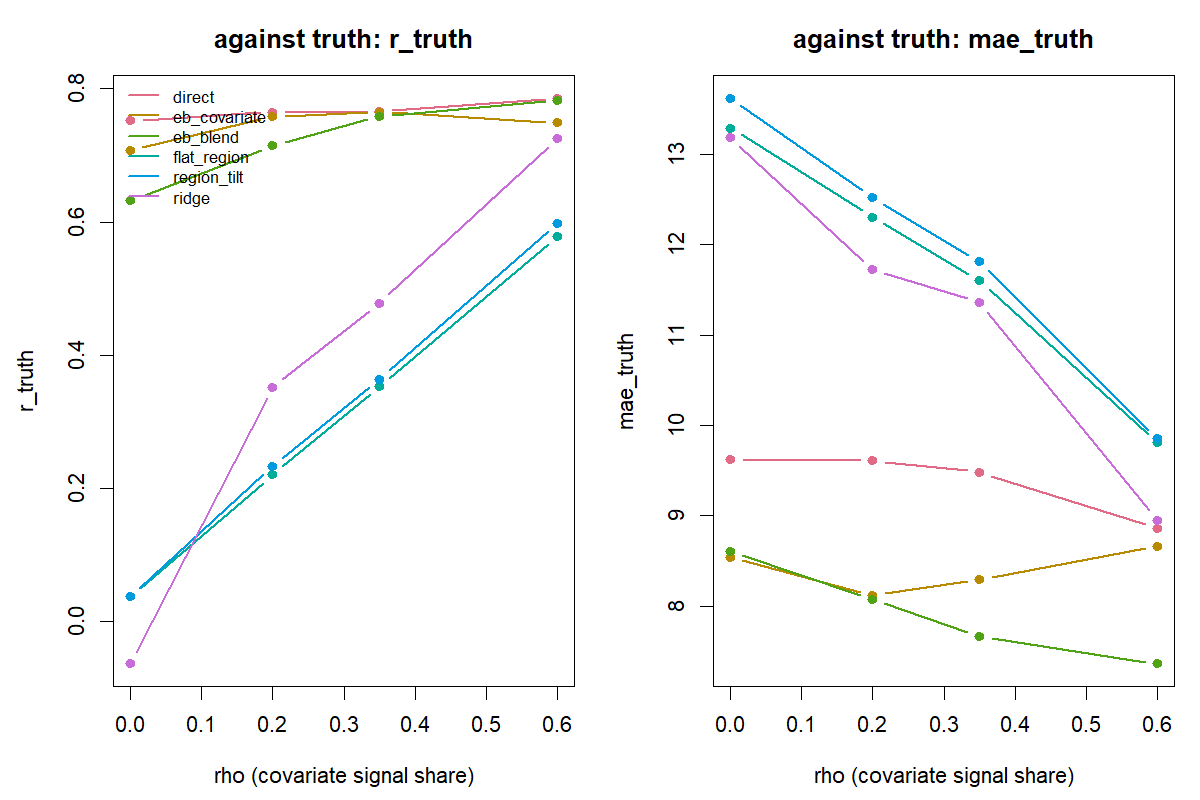
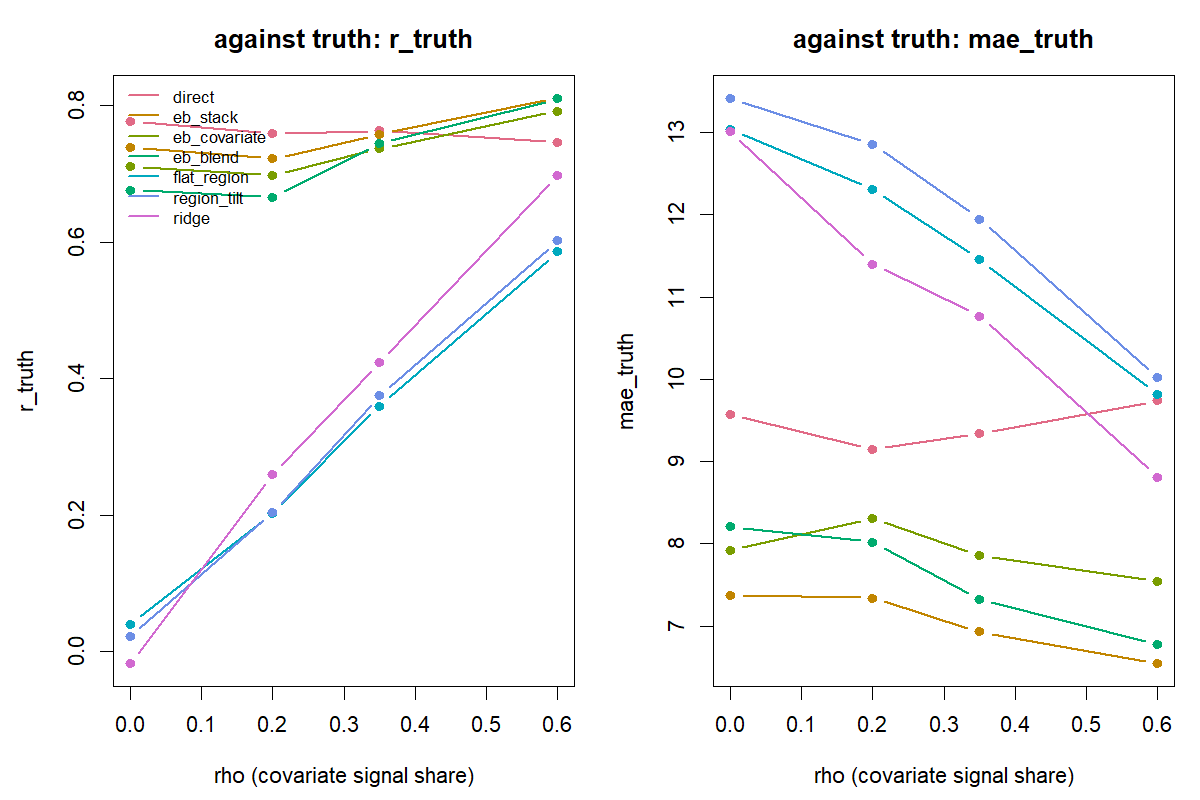
Give the three shrinkage arms the same definition of tau2
The estimator tournament was comparing eb_blend against eb_covariate and
eb_stack while giving them different variance components:

  eb_blend       var(p) - vbar          TOTAL between-district variance
  eb_covariate   var(p - ridge) - vbar  residual after its own target
  eb_stack       var(p - stack) - vbar  residual after its own target

For a shrinkage toward m the model is theta_d = m_d + u_d, so tau2 is
Var(p - m) - vbar. The total-variance form overstates it by the between-region
component, about 40 percent of district variance by WS-E2. So any reading of
"eb_stack beats eb_blend" was conflating a better TARGET with a better TAU2
ROUTE, in the one comparison the tournament exists to make. All three arms now
use residual-after-own-target, and the total-variance route is kept as a scored
arm rather than deleted, so its cost is measured.

Quantifying it on the 24 shipped cells contradicted the reasoning that
motivated the fix. Both moment routes collapse to the floor in 14 of 24 cells.
Of the ten that survive, the residual is smaller in five and LARGER in five,
reaching 61x in Sierra Leone women_iron and 107,004x in child_vitA.

A residual variance above the total says the jackknifed region mean predicts a
district worse than the grand mean does. With 14 districts across 4 regions,
Sierra Leone computes each district's regional target from two or three other
districts, so the target carries heavy sampling error of its own. The residual
[…]

diff --git a/docs/findings/WSB_ESTIMATOR_TOURNAMENT.md b/docs/findings/WSB_ESTIMATOR_TOURNAMENT.md
@@ -144,3 +144,72 @@ and everything under `results/deliverables/` are new.
 route for `tau2` is reinstated. Suite is 72 passing.
 
 **Runtime.** About four hours for eight cells at 100 replicates and four ρ.
+
+---
+
+# Addendum, late September 2026: the tau2 route, and a target that is noisier than no target
+
+## A confound in the arm comparison, found and fixed
+
+The three empirical Bayes arms were not using the same definition of `tau2`:
+
+| arm | tau2 |
+|:---|:---|
+| `eb_blend` | `var(p) - vbar`, the **total** between-district variance |
+| `eb_covariate` | `var(p - ridge) - vbar`, residual after its own target |
+| `eb_stack` | `var(p - stack) - vbar`, residual after its own target |
+
+For a shrinkage toward target `m` the model is `theta_d = m_d + u_d`, so `tau2`
+is `Var(p - m) - vbar`. Using the total variance overstates it by the
+between-region component, which WS-E2 puts at about 40 percent of district
+variance.
+
+The consequence was not cosmetic. It meant that any comparison of `eb_stack`
+against `eb_blend` conflated **a better target** with **a better tau2 route** --
+which is the single comparison this tournament exists to make. All three arms
+now use residual-after-own-target, and the total-variance route is retained as a
+scored arm, `eb_blend_totvar`, so its cost is measured rather than assumed.
+
+## The correction's own justification was half wrong
+
+The obvious reading of the above is that `eb_blend` had been shrinking too
+little everywhere. Measured across the 24 shipped cells, that is true in about
+half of them and false in the rest:
+
+| `tau2_residual / tau2_total` | cells |
+|:---|---:|
+| both collapse to the floor | **14** |
+| residual smaller, 0.00 to 0.76 | 5 |
+| residual larger, 1.19 to 1.60 | 4 |
+| residual very much larger | **2** |
+
+Sierra Leone women_iron has a ratio of **61**, and Sierra Leone child_vitA of
+**107,004**.
+
+## What that means, and it is a real limitation of the shipped estimator
+
+A residual variance larger than the total says the jackknifed region mean is a
+**worse** predictor of a district than the grand mean is. That is not a coding
+error. Sierra Leone has 14 districts across 4 regions, so a district's
+jackknifed regional target is computed from **two or three other districts** and
+carries substantial sampling error of its own.
+
+The residual-variance formula is correct only when the target is estimated
+without error. Where districts are scarce that assumption fails, and the shipped
+estimator is then shrinking toward a quantity noisier than the national mean it
+could have used instead.
+
+This is a limitation to state rather than a defect to patch here. The fix would
+be to propagate the target's own variance into `tau2` -- shrinking toward the
+region mean only as far as the region mean is itself known -- and to let the
+national mean take weight where it is not. That is exactly what the `eb_stack`
+arm's candidate set makes available, and it is one more reason to score that arm
+rather than reason about it.
+
+## The shipped estimator does not need re-issuing on this
+
+`tau2` comes from split-half reliability in **21 of 24** shipped cells, with a
+median lambda of 0.478. Both moment routes -- total and residual -- collapse to
+the floor in **14 of 24**, which is the degeneracy WS-B3 already documented and
+the reason the reliability route was adopted in the first place. The route this
+addendum corrects is a fallback that the shipped output mostly does not take.
